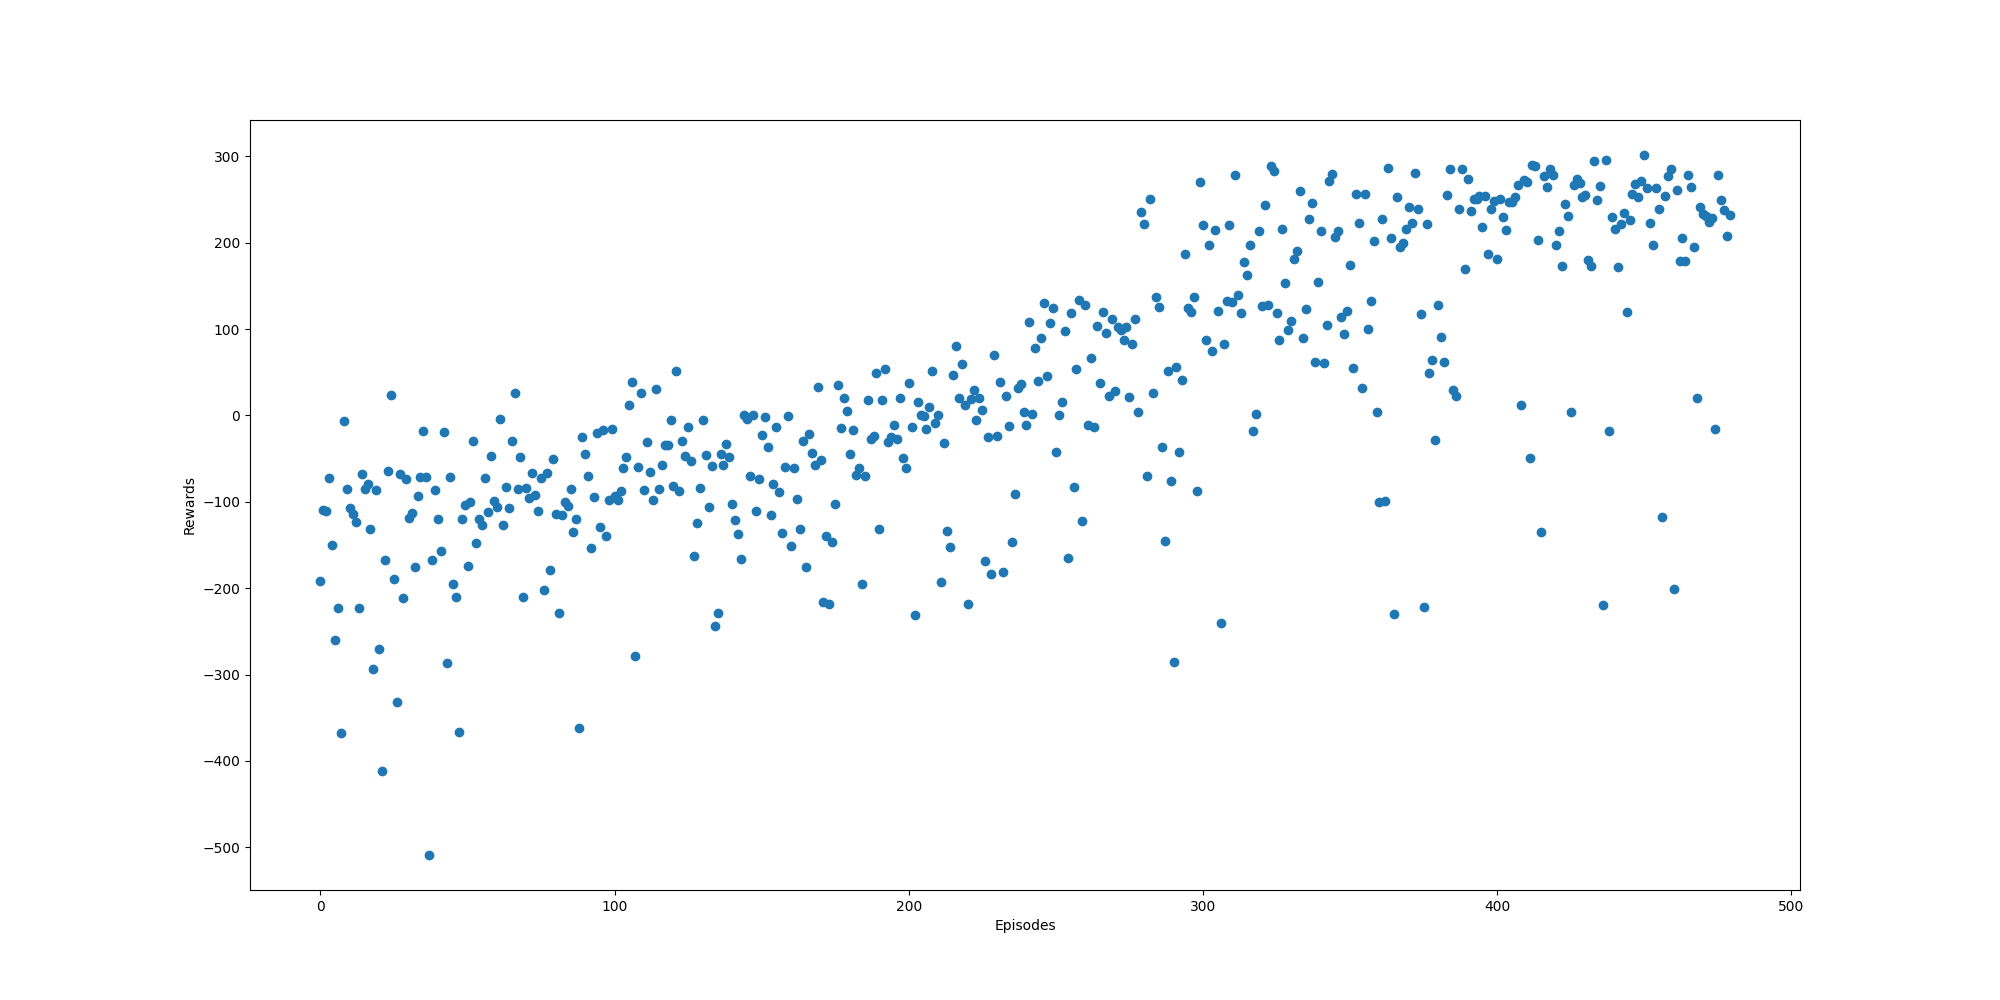
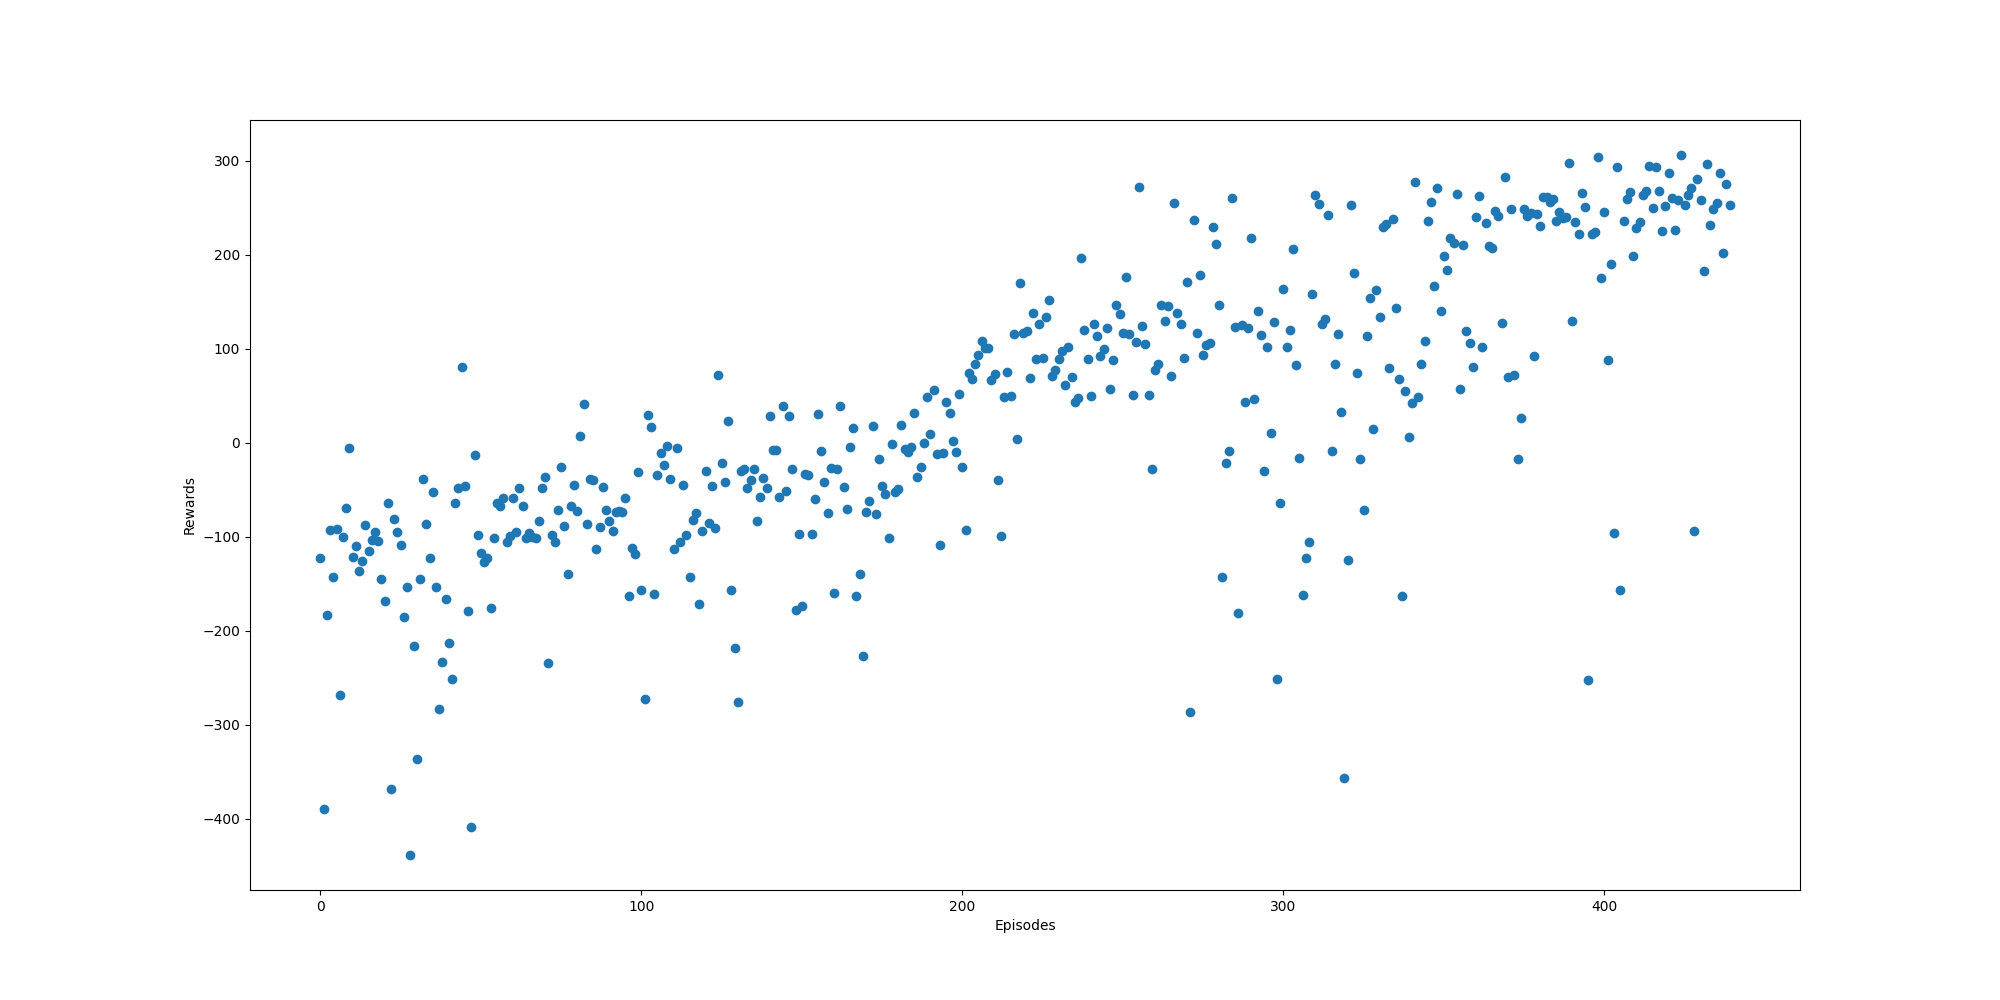
best double dqn

diff --git a/doublelander.py b/doublelander.py
@@ -63,11 +63,11 @@ fig = plt.figure(figsize=(20, 10))
 plt.scatter([i for i in range(len(reward_list_ep))], reward_list_ep)
 plt.xlabel("Episodes")
 plt.ylabel("Rewards")
-plt.savefig('results/doubleDQNscatter2.png')
+plt.savefig('results/doubleDQNscatter3.png')
 plt.plot([i for i in range(len(reward_list_ep))], reward_list_ep)
 plt.xlabel("Episodes")
 plt.ylabel("Rewards")
-plt.savefig('results/doubleDQNplot2.png')
+plt.savefig('results/doubleDQNplot3.png')
 
 # fig = plt.figure(figsize=(20, 10))
 # plt.scatter([i for i in range(len(reward_list_ep))], reward_list_ep)

diff --git a/DoubleDqn.py b/DoubleDqn.py
@@ -49,7 +49,7 @@ class DoubleDQN(nn.Module):
         # updates the weights of the model after computing gradients
         self.optimizer = torch.optim.Adam(self.local_net.parameters(), lr=self.lr)
 
-        self.copy = 2 # Copy the local model weights into the target network every 2 steps
+        self.copy = 3 # Copy the local model weights into the target network every 2 steps
         self.step = 0
 
         self.loss_fn = nn.MSELoss()  # defining our loss function to be the MSE loss
